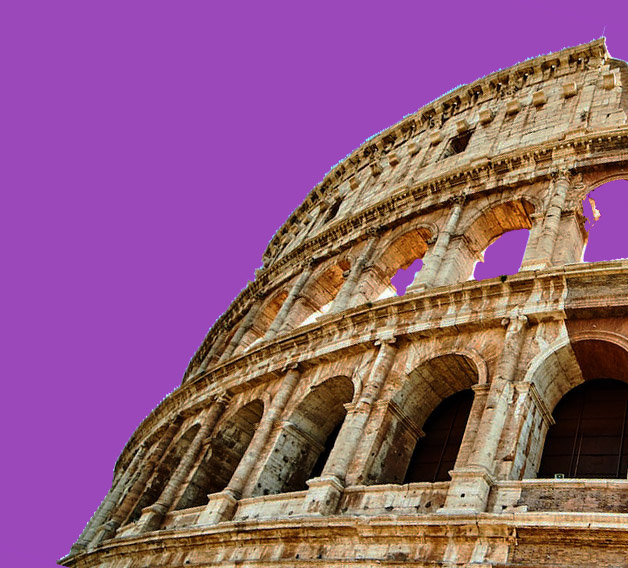
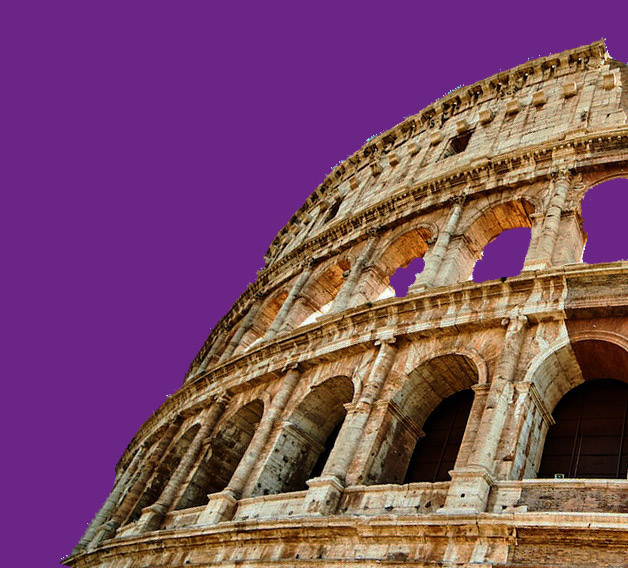
3

diff --git a/index.html b/index.html
@@ -11,7 +11,7 @@
     <!-- HEADER STARTS -->
     <div class="navbar" >
         <ul>
-            <li><img src="./assets/img/momondo.png" width="110px" ></li>
+            <li><img src="./assets/img/momondo.png" width="110px" class="logo"></li>
             <li><a href="javascript:void()">Flights</a></li>
             <li><a href="javascript:void()">Hotel</a></li>
             <li><a href="javascript:void()">Car Hire</a></li>
@@ -36,7 +36,7 @@
             <h6>&nbsp;&nbsp;- every single time</h4>
         </div>
         <div class="content2">
-            <table>
+            <table class="tac">
                 <tr>
                    <td colspan="5">
                     <ul>
@@ -75,51 +75,115 @@
                     Include nearly airports</td>
                 </tr>
             </table>
+            <div class="tab">
+                <table>
+                    <tr>
+                        <td colspan="2">
+                            <ul>
+                                <li style="background-color: #f50152 !important;">
+                                <i class="fa-solid fa-plane-departure" style="color: #ffffff;"></i> Flights</li>
+                                <li><i class="fa-solid fa-hotel" style="color: #ffffff;"></i> Hotels</li>
+                                <li><i class="fa-solid fa-car" style="color: #ffffff;"></i> Cars</li>
+                            </ul>
+                        </td>
+                        <tr>
+                            <td colspan="2">
+                                <input type="text" placeholder="Enter Origin City">
+                            </td>
+                        </tr>
+                        <tr>
+                            <td colspan="2">
+                                <input type="text" placeholder="Enter Destination City">
+                            </td>
+                        </tr>
+                        <tr>
+                            <td colspan="1"><input type="date" placeholder="dd"></td>
+                            <td colspan="1"><input type="date" placeholder="dd"></td>
+                        </tr>
+                        <tr>
+                            <td colspan="2">
+                                <input type="text" placeholder="Number of Pasangers">
+                            </td>
+                        </tr>
+                        <tr>
+                            <td colspan="2">
+                                <button type="submit">save</button>
+                            </td>
+                        </tr>
+                        
+                    <tr>
+                        <td style="padding: 6px;" colspan="2">
+                            <input type="checkbox"> Direct Flights Only <br>
+                            <input type="checkbox"> Include nearly airports <br>
+                            Ticket type 
+                            <select style="background-color: #500a50;border: 0px;color: #ffffff;
+                            font-size: 16px;">
+                            <option selected> Return trip</option>
+                            </select> <br>
+                            Ticket class 
+                            <select style="background-color: #500a50;border: 0px;color: #ffffff;
+                            font-size: 16px;">
+                            <option selected>Economy</option>
+                            </select>
+                            </td>
+                    </tr>
+                    </tr>
+                    
+                </table>
+            </div>
         </div>
     </div>
     <!-- BANNER ENDS -->
      <!-- PART2 START -->
    <div class="part2">
-    <img src="./assets/img/desert.jpg" alt="">
+    <img src="./assets/img/desert.jpg" class="pa2">
     <p>SOME FUN WE COVERED</p>
         <div class="block">
+           <div class="line1">
             <div class="block1">
                 <div class="data">
-                    <i class="fa-solid fa-person-biking" style="color: #ffffff;font-size: 50px;margin-bottom: 9px;"></i><br>
+                    <i class="fa-solid fa-person-biking" style="color: #ffffff;font-size: 44px;margin-bottom: 15px;"></i><br>
                     <b>5670M</b> <br>CYCLING TRACK
                 </div>
             </div>
             <div class="block2">
                 <div class="data">
-                    <i class="fa-solid fa-location-dot" style="color: #ffffff;font-size: 50px;margin-bottom: 9px;"></i><br>
+                    <i class="fa-solid fa-location-dot" style="color: #ffffff;font-size: 44px;margin-bottom: 15px;"></i><br>
                     <b>5670M</b> <br>CYCLING TRACK
                 </div>
             </div>
-            <div class="block3">
-                <div class="data">
-                    <i class="fa-solid fa-person-walking" style="color: #ffffff;font-size: 50px;margin-bottom: 9px;"></i><br>
-                    <b>5670M</b> <br>CYCLING TRACK
+           </div>
+            <div class="line2">
+                <div class="block3">
+                    <div class="data">
+                        <i class="fa-solid fa-person-walking" style="color: #ffffff;font-size: 44px;margin-bottom: 15px;"></i><br>
+                        <b>5670M</b> <br>CYCLING TRACK
+                    </div>
+                </div>
+                <div class="block4">
+                    <div class="data">
+                        <i class="fa-solid fa-ship" style="color: #ffffff;font-size: 44px;margin-bottom: 15px;"></i><br>
+                        <b>5670M</b> <br>CYCLING TRACK
+                    </div>
                 </div>
             </div>
-            <div class="block4">
-                <div class="data">
-                    <i class="fa-solid fa-ship" style="color: #ffffff;font-size: 50px;margin-bottom: 9px;"></i><br>
-                    <b>5670M</b> <br>CYCLING TRACK
+            <div class="line3">
+                <div class="block5">
+                    <div class="data">
+                        <i class="fa-solid fa-mountain-sun" style="color: #ffffff;font-size: 44px;margin-bottom: 15px;"></i><br>
+                        <b>5670M</b> <br>CYCLING TRACK
+                    </div>
                 </div>
-            </div>
-            <div class="block5">
-                <div class="data">
-                    <i class="fa-solid fa-mountain-sun" style="color: #ffffff;font-size: 50px;margin-bottom: 9px;"></i><br>
-                    <b>5670M</b> <br>CYCLING TRACK
-                </div>
-            </div>
-            <div class="block6">
-                <div class="data">
-                    <i class="fa-solid fa-tree" style="color: #ffffff;font-size: 50px;margin-bottom: 9px;"></i><br>
-                    <b>5670M</b> <br>CYCLING TRACK
+                <div class="block6">
+                    <div class="data">
+                        <i class="fa-solid fa-tree" style="color: #ffffff;font-size: 44px;margin-bottom: 15px;"></i><br>
+                        <b>5670M</b> <br>CYCLING TRACK
+                    </div>
                 </div>
             </div>
         </div>
+   </div>
+  
    </div>
     <!-- PART2 END -->
     <!-- PART3 START -->
@@ -137,7 +201,7 @@
    </div>
     <!-- PART3 END -->
     <!-- PART4 START -->
-    <div class="part4" style="background-color: #500a50;width: 100%;">
+    <div class="part4" >
         <div class="datas">
             <p>POPULAR DESTINATIONS</p>
             <table>
@@ -210,7 +274,7 @@
                 <td><input type="text" placeholder="Travel Date"></td>
                 <td><input type="text" placeholder="Number of People"></td>
                 <td><input type="text" placeholder="Your Email"></td>
-                <td><button type="button">CALCULATE NOW</button></td>
+                <td><button type="submit">CALCULATE NOW</button></td>
             </tr>
         </table>
     </div>
@@ -226,7 +290,7 @@
         <span class="con">
             <p class="pp1">Feb 03, 2016</p>
             <p class="pp2">10 THINGS TODO BEFORE TRAVEL</p>
-            <hr style="width: 300px;color: #a72929;">
+            <hr style="width: 330px;color: #a72929;">
             <p class="pp3">Lorem ipsum dolor sit amet, consectetur adipisicing elit. Culpa dolor qui sed doloremque quos reiciendis ut cupiditate esse placeat?</p>
         </span>
         <div class="dd2">
@@ -263,16 +327,16 @@
             </ul>
             <ul>
             <li style="font-size: 20px;">Top Countries</li><br>
-            <li><i class="fa-solid fa-location-dot" style="color: #7e7f81;"></i><g> Flights to</g> London,<g>United Kingdom</g></li>
-            <li><i class="fa-solid fa-location-dot" style="color: #7e7f81;"></i><g> Flights to</g> New York,<g>United States</g></li>
-            <li><i class="fa-solid fa-location-dot" style="color: #7e7f81;"></i><g> Flights to</g> Bankok,<g>Thailand</g></li>
-            <li><i class="fa-solid fa-location-dot" style="color: #7e7f81;"></i><g> Flights to</g> Coperbingham,<g>Denmark</g></li>
-            <li><i class="fa-solid fa-location-dot" style="color: #7e7f81;"></i><g> Flights to</g> Orlanto,<g>United States</g></li>
-            <li><i class="fa-solid fa-location-dot" style="color: #7e7f81;"></i><g> Flights to</g> Paris,<g>France</g></li>
-            <li><i class="fa-solid fa-location-dot" style="color: #7e7f81;"></i><g> Flights to</g> Dubai,<g>United Arab Emirates</g></li>
-            <li><i class="fa-solid fa-location-dot" style="color: #7e7f81;"></i><g> Flights to</g> Singapore,<g>Singapore</g></li>
-            <li><i class="fa-solid fa-location-dot" style="color: #7e7f81;"></i><g> Flights to</g> Istambul,<g>Turkey</g></li>
-            <li><i class="fa-solid fa-location-dot" style="color: #7e7f81;"></i><g> Flights to</g> Hong Kong,<g>Hong Kong</g></li>
+            <li><i class="fa-solid fa-location-dot" style="color: #7e7f81;"></i><g> Flights to</g> London,<g> United Kingdom</g></li>
+            <li><i class="fa-solid fa-location-dot" style="color: #7e7f81;"></i><g> Flights to</g> New York,<g> United States</g></li>
+            <li><i class="fa-solid fa-location-dot" style="color: #7e7f81;"></i><g> Flights to</g> Bankok,<g> Thailand</g></li>
+            <li><i class="fa-solid fa-location-dot" style="color: #7e7f81;"></i><g> Flights to</g> Coperbingham,<g> Denmark</g></li>
+            <li><i class="fa-solid fa-location-dot" style="color: #7e7f81;"></i><g> Flights to</g> Orlanto,<g> United States</g></li>
+            <li><i class="fa-solid fa-location-dot" style="color: #7e7f81;"></i><g> Flights to</g> Paris,<g> France</g></li>
+            <li><i class="fa-solid fa-location-dot" style="color: #7e7f81;"></i><g> Flights to</g> Dubai,<g> United Arab Emirates</g></li>
+            <li><i class="fa-solid fa-location-dot" style="color: #7e7f81;"></i><g> Flights to</g> Singapore,<g> Singapore</g></li>
+            <li><i class="fa-solid fa-location-dot" style="color: #7e7f81;"></i><g> Flights to</g> Istambul,<g> Turkey</g></li>
+            <li><i class="fa-solid fa-location-dot" style="color: #7e7f81;"></i><g> Flights to</g> Hong Kong,<g> Hong Kong</g></li>
             </ul>
             <ul>
                 <li style="font-size: 20px;">International Sites</li><br>
@@ -314,7 +378,7 @@
             </ul>
             &nbsp;&nbsp;&nbsp;&nbsp;&nbsp;&nbsp;&nbsp;&nbsp;&nbsp;&nbsp;
             <g>Lorem ipsum dolor sit amet, consectetur adipisicing elit. Itaque, deleniti 
-                minus consequuntur veniam- By Vidya Tandel.</g>
+                minus consequuntur Designed - By Vidya Tandel.</g>
         </div>
     </footer>
     <!-- FOOTER ENDS -->

diff --git a/assets/css/style.css b/assets/css/style.css
@@ -39,6 +39,7 @@ a{text-decoration: none;color: #fff;}
     top:166px;left:140px;
     font-size: 50px;
 }
+.banner img{width: 100%;}
 .banner h6{
     padding-top: 9px;}
 .banner .content2{
@@ -82,11 +83,12 @@ padding: 10px;color: #8b8889;
 .banner .content2 table tr td{
     color: #fff;
 }
-
+.tab{display: none;}
 /* PART2 STARTS */
 
 .part2 p{position: absolute;top:36px;left:500px;font-size:24px;}
 .part2{position: absolute;top:700px;color:#fff}
+.part2 img{width: 100% !important;}
 .part2 .block .block1{
     width:140px;height: 140px;opacity: 76%;
     margin:3px;background-color: black;
@@ -113,7 +115,7 @@ padding: 10px;color: #8b8889;
     position: absolute;top:93px;left:990px;}
 .part2 .block .data{
     text-align: center;line-height: 21px;
-    padding-top: 21px;font-size: 15px;
+    padding-top: 21px;font-size: 14px;
 } 
 .part2 .block i{
     margin-bottom: 10px;
@@ -128,15 +130,15 @@ padding: 10px;color: #8b8889;
 .part3 .data1 button{padding: 11px 36px;}
 
 /* PART4 STARTS */
-.part4{height: 860px;background-color: #270427;position: absolute;top:1347px;color: #2e2c2c;}
+.part4{height: 860px;background-color: #2e062e;position: absolute;top:1347px;color: #2e2c2c;width: 100%;}
 .part4 .datas p{position: absolute;top:24px;left: 500px;color: #fff;font-size: 24px;}
 .part4 table{position: absolute;top: 63px;left: 103px;width: auto;height: auto;border-spacing: 19px;}
 .part4 table td{background-color: #fff;padding: 6px 6px 10px 6px;}
 or{color: orange;}.put{width: 240px;padding: 6px 0px 6px 12px;}
 
 /* PART5 STARTS */
-.part5{background-color: #9b48ba;width: 100% ;height: 330px;position: absolute;top: 2207px;color: #fff;}
-.part5 img{width: 366px;position: absolute; top:0px;left: 983px;}
+.part5{background-color: #6b2587;width: 100% ;height: 330px;position: absolute;top: 2207px;color: #fff;}
+.part5 img{width: 366px;position: absolute; top:0px;right: 0px;}
 .part5 .q1{position: absolute; font-size: 34px;top:55px;left: 120px;}
 .part5 .q2{position: absolute; font-size: 20px;top:101px;left: 120px;}
 .part5 hr{position: absolute;top: 136px;left: 120px;}
@@ -146,7 +148,7 @@ or{color: orange;}.put{width: 240px;padding: 6px 0px 6px 12px;}
 .part5 table button{padding: 13px 20px;background-color: orange;border: 0px;}
 
 /* PART6 STARTSS */
-.part6{position: absolute;top: 2537px;background-color: rgb(240, 236, 233);padding: 30px 60px;color: #2e2c2c;}
+.part6{position: absolute;top: 2537px;background-color: rgb(240, 236, 233);padding: 30px 110px;color: #2e2c2c;}
 .part6 .b1{font-size: 24px;padding-bottom: 5px;text-align: center;}
 .part6 .b2{font-size: 17px;padding: 20px 200px !important;text-align: center;}
 .dd{display: flex;padding: 6px 36px;}
@@ -154,7 +156,7 @@ or{color: orange;}.put{width: 240px;padding: 6px 0px 6px 12px;}
 .part6 hr{margin: 6px 20px;}
 .pp2{font-size: 20px;padding: 6px 20px;}
 .pp3{width:330px;padding: 6px 20px;}
-.part6 .dd img{width: 200px;height: 180px;}
+.part6 .dd img{width: 180px;height: 180px;}
 
 /* FOOTER STARTS */
 footer{position: absolute;top:2967px;background-color: black;font-size: 14px;}
@@ -166,3 +168,77 @@ footer .end{position: absolute;top:300px;color: #fff;padding: 10px 100px;backgro
 box-shadow: 0px -3px 6px 2px black;margin-top: 6px;height: auto;}
 .end ul{list-style: none;display: flex;font-size: 17px;}
 .end ul li{padding-top: 9px;padding-left: 14px;}
+
+/* RESPONSIVE DIMENTIONS */
+@media screen and (max-width:991px){
+    .navbar{
+        height: auto;
+        line-height: normal;
+        text-align: start;
+        width: 100%;
+        padding-left: 30px;
+        padding-bottom: 30px;
+    }
+    .navbar .logo{
+        width: 260px !important;
+    }
+    .navbar ul{
+        display: inline-block;
+        margin-left:0px !important;
+    }
+    .navbar ul li{
+        margin: 0px 0px !important;
+    }
+    .navbar .ul2{
+        padding-left: 0px !important;
+        position: absolute;top: 66px;
+        left: 160px;
+    }
+    .banner{
+        width: 100% !important;
+        height: auto !important;
+    }
+    .banner .content1{
+        position: absolute;
+        top:210px;left: 10px;
+        font-size: 36px;
+    }
+    .banner .content2{
+        position: absolute;
+        top:336px;left:10px ;
+        margin-left: 0px !important;
+        height: auto;width: 310px !important;
+        padding: 9px 6px !important;
+        padding-bottom: 10px !important;
+    }
+    .tac{display: none;}
+    .banner .content2 ul{
+        display: flex;
+        text-align: center;
+        width: 100%;
+        font-size: 15px;
+    }
+    .banner .content2 .tab {
+        display: block;
+    }
+    .banner .content2 .tab tr td{
+        padding-left: 0px;}
+    .banner .content2 table tr td input[type="text"]{
+     padding: 12px;width: 100% !important;
+    }
+    .banner .content2 table tr td input[type="date"]{
+        padding: 10px 12px;width: 100% !important;
+       }
+    .banner .content2 table tr td button{
+        width: 100%;padding: 10px 0px;
+        background-color: #f50152;
+        color: #fff;font-size: 17px;
+    }
+    .banner img{
+        width: 100% !important;
+        height: 600px;
+    }
+    
+
+   
+}
